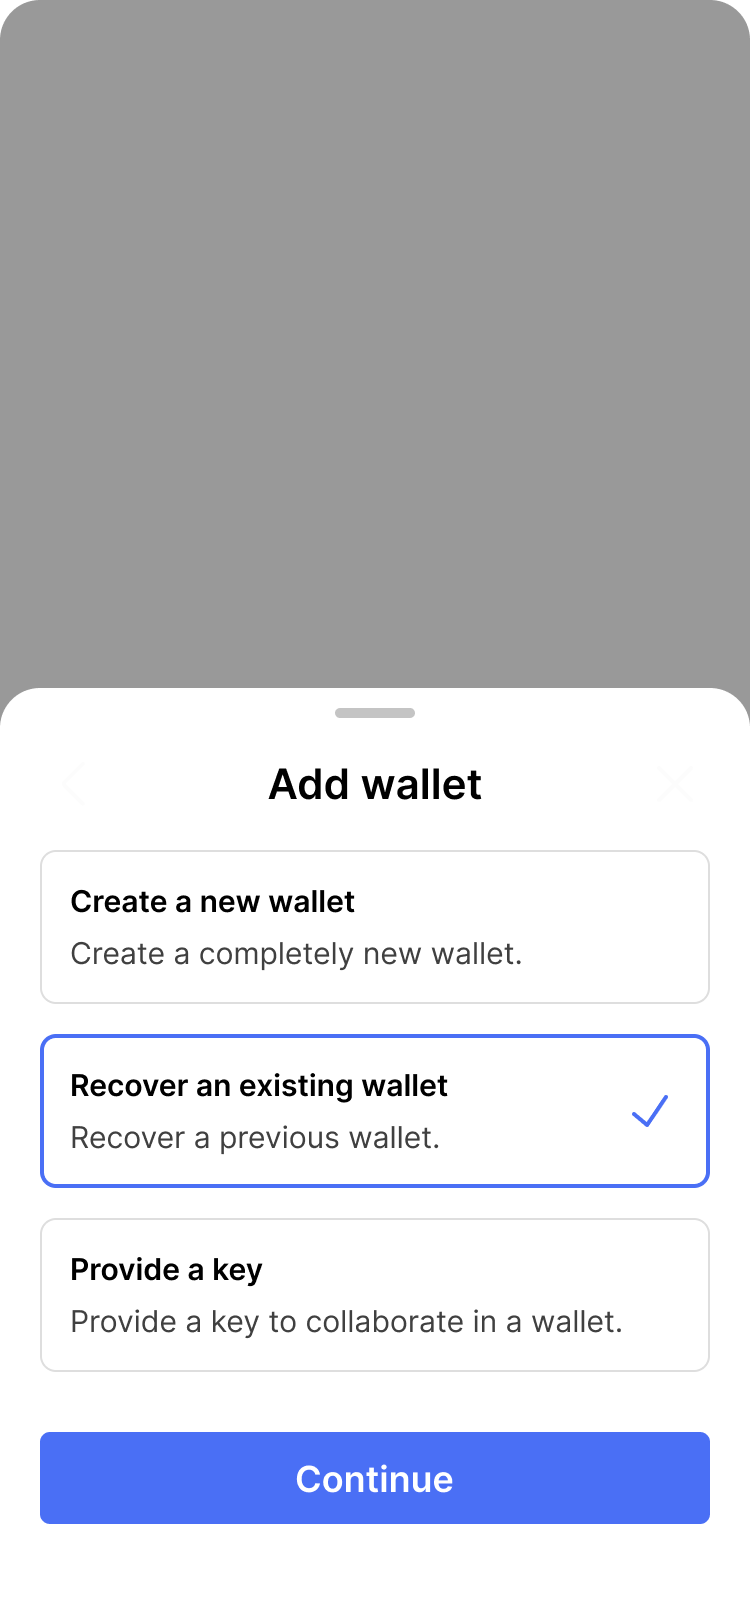
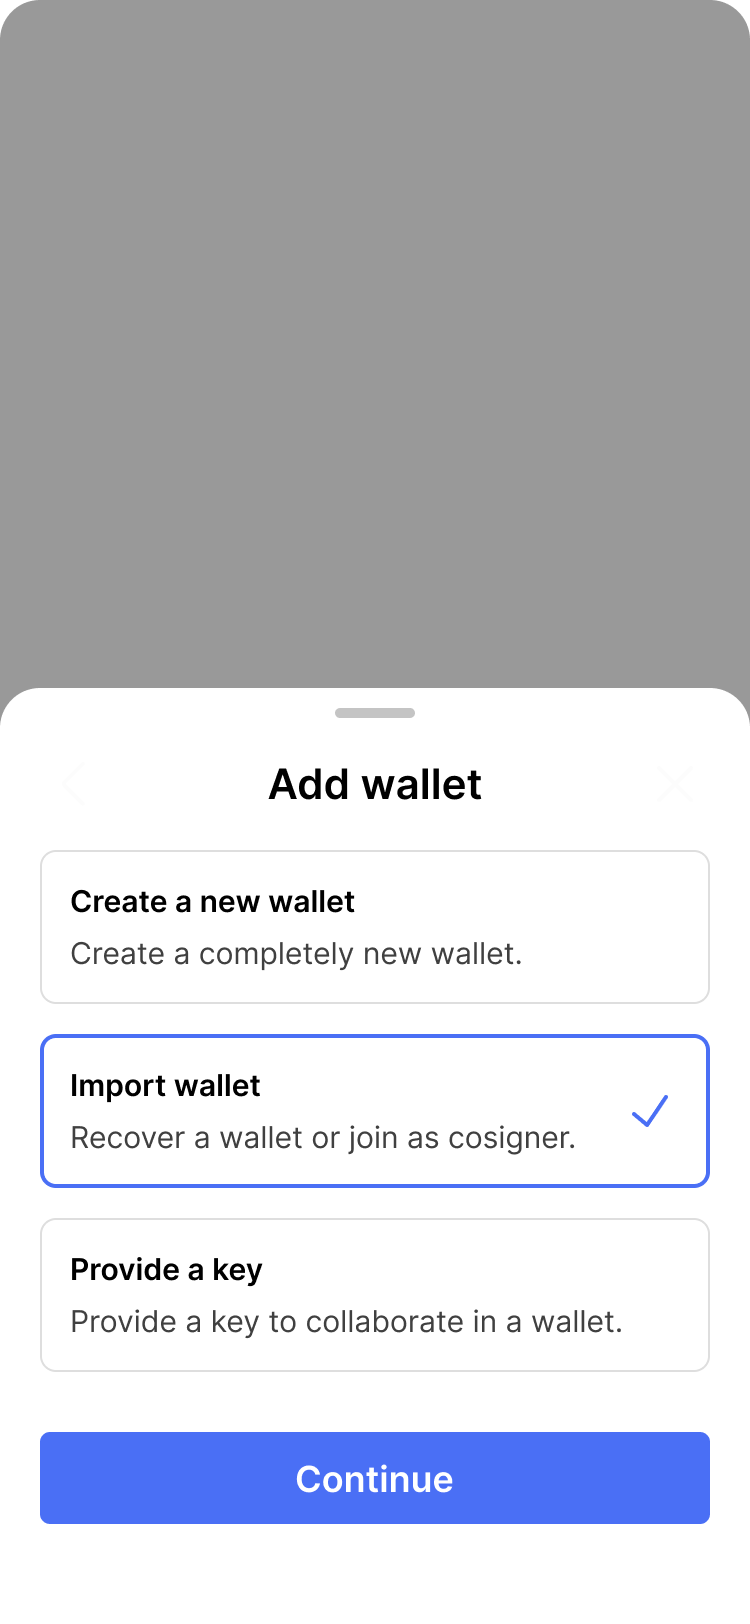
Text tweaks and image cleanup

Changed region(s): [[0.092, 0.6466, 0.6133, 0.7081], [0.6133, 0.6773, 0.7667, 0.7081]]

diff --git a/guide/inheritance-wallet/succession.md b/guide/inheritance-wallet/succession.md
@@ -30,10 +30,10 @@ images_wallet-import:
       alt: App home screen showing the family savings wallet.
       caption: The home screen reminds Christina that she should download the backup kit and enable her signing device.
 images_inheritance-transaction-create:
-    - file: inheritance-transaction-create/app-home-initial
-      alt: App home screen showing the Family savings wallet.
-      caption: Christina goes into the family savings wallet to create a transaction.
-    - file: inheritance-transaction-create/wallet-overview
+    - file: inheritance-transaction-create/move-funds-app-home-initial
+      alt: App home screen showing the inheritance wallet.
+      caption: Christina goes into the inheritance wallet to create a transaction.
+    - file: inheritance-transaction-create/move-funds-wallet-overview
       alt: Wallet overview screen.
       caption: On the wallet details page, she hits "pay".
     - file: inheritance-transaction-create/move-funds-recipient-filled
@@ -64,23 +64,30 @@ images_inheritance-transaction-sign-christina:
     - file: inheritance-transaction-sign/move-funds-sign-christina-done
       alt: Screen showing the transaction details. It shows that one of the inheritance keys has already signed the transaction.
       caption: The first signature has been provided.
+    - file: inheritance-transaction-sign/move-funds-sign-christina-share
+      alt: Screen showing a QR code and sharing options.
+      caption: Christina shares the partially signed transaction with David.
+
 images_inheritance-transaction-sign-david:
-    - file: inheritance-transaction-sign/app-home-initial-david
-      alt: App home screen showing that a transaction is ready to be signed.
-      caption: The home screen shows that a transaction is ready to be signed.
+    - file: inheritance-transaction-sign/move-funds-sign-david-payment-sheet
+      alt: Dialog showing three different payment options.
+      caption: David initiates the transaction signing process.
+    - file: inheritance-transaction-sign/move-funds-sign-david-import-options
+      alt: Screen showing different options for how to import a transaction.
+      caption: He chooses the scan QR code option.
+    - file: inheritance-transaction-sign/move-funds-sign-david-import-tx
+      alt: QR code scanning screen.
+      caption: David scans the QR code from Christina's phone.
     - file: inheritance-transaction-sign/move-funds-sign-david-initial
       alt: Screen showing the transaction details. It shows that one of the inheritance keys has already signed the transaction.
-      caption: David goes on to sign the transaction as well.
+      caption: David reviews the transaction and signs it.
     - file: inheritance-transaction-sign/move-funds-sign-david-flow
       alt: Placeholder screen representing the transaction signing flow.
-      caption: The app takes her through the signing flow.
+      caption: The app takes him through the signing flow.
     - file: inheritance-transaction-sign/move-funds-success
       alt: Success screen showing that the transaction has been finalized.
       caption: With David's signature the required threshold has been reached and the transaction is finalized.
-    - file: inheritance-transaction-sign/move-funds-sign-david-done
-      alt: Screen showing the details of the finalized transaction.
-      caption: The transaction detail screen now shows the finalized transaction.
-    - file: inheritance-transaction-sign/app-home-sending
+    - file: inheritance-transaction-sign/move-funds-sign-david-home-pending
       alt: App home screen showing a pending transaction.
       caption: The home page shows the pending transaction.
 ---
@@ -148,7 +155,7 @@ After activating the wallet on their signing devices, Christina and David have s
 
 As we have covered on the [use case page]({{ '/guide/inheritance-wallet/overview/' | relative_url }}), the lock period for the inheritance key set is set to 12 months (6 months for the recovery path + 6 months for the inheritance key set). Since Alice and Bob's last transaction was 5 months ago, Christina and David will have to wait an additional 7 months before they can use their inheritance keys.
 
-{% include tip/open.html color="blue" icon="info" label="Note" %}
+{% include tip/open.html color="blue" icon="info" label="Faster access with primary keys" %}
 
 If Christina and David had access to their parents' signing devices, they could potentially use the recovery path after 6 months. However, they don't have this access, so they must wait for the full 12-month period. 
 
